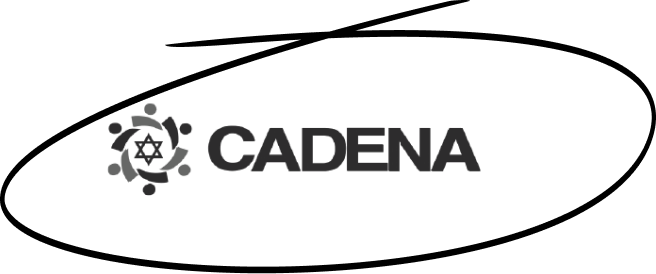
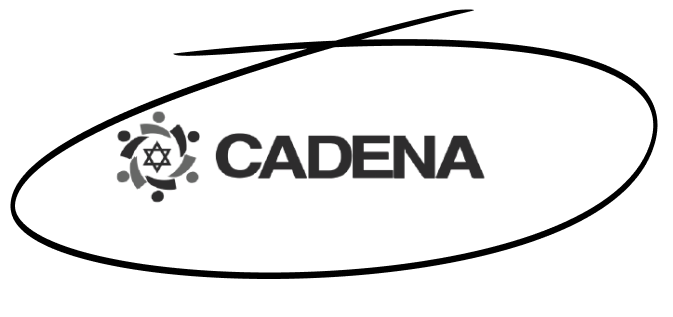
JSON provicional

Changed region(s): [[0.0, 0.0, 1.0, 1.0]]

diff --git a/src/pages/contactPage.jsx b/src/pages/contactPage.jsx
@@ -48,11 +48,11 @@ const ContactPage = () => {
                         <input type="text" name='' placeholder={t("industry")}></input>
                         <input type="text" name='' placeholder={t("email")}></input>
                         <input type="text" name='' placeholder={t("phone")}></input>
-                        <select type="text" name='' >
-                            <option value="">{t("territory")}</option>
+                        <select type="text" name=''>
+                            <option value="" className='opcion'>{t("territory")}</option>
                             <option value="item1">{t("argentina")}</option>
                             <option value="item2">{t("brazil")}</option>
-                            <option value="item3">{t("cam")}</option>
+                            <option value="item3">{t("centroam")}</option>
                             <option value="item4">{t("chile")}</option>
                             <option value="item5">{t("colombia")}</option>
                             <option value="item6">{t("ecuador")}</option>
@@ -120,10 +120,10 @@ const ContactPage = () => {
                     <p className='contactP'>dalia@tycoon.mx</p>
                 </PaisContacto>
                 <PaisContacto pais={t("peru")} image={Peru}>
-                    <p className='contactP'>+511 421 3498</p>
+                    <p className='contactP'>+51 994 102 984</p>
                     <p className='contactSubtitle'>{t("contact")}</p>
-                    <p className='contactP'>María Angela Morales</p>
-                    <p className='contactP'>mariaangela.morales@tycoon.mx</p>
+                    <p className='contactP'>Milka Miletich</p>
+                    <p className='contactP'>milka.miletich@tycoon.mx</p>
                 </PaisContacto>
             </div>
             <div className='contact'></div>
@@ -153,16 +153,16 @@ const ContactPage = () => {
                                     <input type="text" name='' placeholder={t("company")}></input>
                                     <input type="text" name='' placeholder={t("product")}></input>
                                     <input type="text" name='' placeholder={t("email")}></input>
-                                    <select type="text" name='' >
+                                    <select type="text" name=''>
                                         <option value="">{t("territory")}</option>
-                                        <option value="item1">{t("argentina")}</option>
-                                        <option value="item2">{t("brazil")}</option>
-                                        <option value="item3">{t("cam")}</option>
-                                        <option value="item4">{t("chile")}</option>
-                                        <option value="item5">{t("colombia")}</option>
-                                        <option value="item6">{t("ecuador")}</option>
-                                        <option value="item7">{t("mexico")}</option>
-                                        <option value="item8">{t("peru")}</option>
+                                        <option value="item1" className='opcion'>{t("argentina")}</option>
+                                        <option value="item2" className='opcion'>{t("brazil")}</option>
+                                        <option value="item3" className='opcion'>{t("centroam")}</option>
+                                        <option value="item4" className='opcion'>{t("chile")}</option>
+                                        <option value="item5" className='opcion'>{t("colombia")}</option>
+                                        <option value="item6" className='opcion'>{t("ecuador")}</option>
+                                        <option value="item7" className='opcion'>{t("mexico")}</option>
+                                        <option value="item8" className='opcion'>{t("peru")}</option>
                                     </select>
                                 </div>
                                 <div className='formRightDeskDiv'>
@@ -237,10 +237,10 @@ const ContactPage = () => {
                             <p className='contactP'>dalia@tycoon.mx</p>
                         </PaisContacto>
                         <PaisContacto pais={t("peru")} image={Peru}>
-                            <p className='contactP'>+511 421 3498</p>
+                            <p className='contactP'>+51 994 102 984</p>
                             <p className='contactSubtitle'>{t("contact")}</p>
-                            <p className='contactP'>María Angela Morales</p>
-                            <p className='contactP'>mariaangela.morales@tycoon.mx</p>
+                            <p className='contactP'>Milka Miletich</p>
+                            <p className='contactP'>milka.miletich@tycoon.mx</p>
                         </PaisContacto>
                     </div>
                 </div>

diff --git a/src/css/contact.css b/src/css/contact.css
@@ -27,7 +27,7 @@
 }
 .contactRightDiv a {
     text-decoration: none;
-    color: black;
+    color: #051C2C;
 }
 .contactInfoDiv {
     display: flex;
@@ -40,6 +40,8 @@
     font-size: 20px;
     width: 47%;
     text-align: right;
+    color: #051C2C;
+
 }
 .contactRightDiv{
     width: 47%;
@@ -49,6 +51,8 @@
     font-size: 16px;
     margin-bottom: 4%;
     margin-top: 0%;
+    color: #051C2C;
+
 }
 .mail {
     font-family: "B semiBold";
@@ -97,6 +101,18 @@
     font-family: "B semiBold";
     font-size: 16px;
 }
+.opcion:hover {background: blue;}
+/* .contactFormDiv select:hover {
+    color: #444645;
+    background: #ddd;
+} */
+/* .contactFormDiv select.decorated option:checked {
+    box-shadow: 0 0 10px 100px red inset;
+} */
+/* .contactFormDiv option:checked {
+    background-color: yellow;
+    font-size: 80px;
+  } */
 .contactFormDiv textarea {
     width: 95%;
     background-color: #CCE9F7;
@@ -124,6 +140,8 @@
     width: 60%;
     text-align: center;
     margin-bottom: 4%;
+    color: #051C2C;
+
 }
 .tycoon360 {
     width: 64%;

diff --git a/src/components/layout/footer.css b/src/components/layout/footer.css
@@ -8,6 +8,8 @@
 }
 .footerTitle {
     font-family: "B Bold";
+    color: #051C2C;
+
 }
 .paisesRow {
     display: flex;
@@ -16,17 +18,19 @@
 }
 .teInteresaDiv a {
     text-decoration: none;
-    color: black;
+    color: #051C2C;
 }
 .teInteresa {
     font-family: "B SemiBold";
 }
 .escribenos {
     font-family: "B SemiLight";
+    color: #051C2C;
+
 }
 .escribenos span {
     font-family: "B SemiBold";
-    color: #0093D7;
+    color: #051C2C;
 }
 .footerNav a  {
     font-family: "B SemiLight";
@@ -84,6 +88,8 @@
 }
 .pagsDiv a {
     font-size: 10px;
+    color: #051C2C;
+
 }
 .paisesDivDesk {
     display: flex;
@@ -96,7 +102,7 @@
 .pagsDiv a {
     font-family: "B SemiLight";
     text-decoration: none;
-    color: black;
+    color: #051C2C;
 }
 .redesDeskDiv {
     width: 15%;

diff --git a/src/components/layout/header.css b/src/components/layout/header.css
@@ -72,10 +72,10 @@
     justify-content: space-around;
     align-items: center;
     padding: 1% 2% 1% 5%;
-    width: 25%;
+    width: 20%;
 }
 .deskRightDiv img{
-    width: 40%;
+    width: 50%;
 }
 .deskNav {
     display: flex;
@@ -86,7 +86,7 @@
 }
 .deskNav a {
     font-family: "B Medium";
-    color: black;
+    color: #051C2C;
     text-decoration: none;
     font-size: 10px;
 
@@ -104,7 +104,7 @@
         font-size: 16px;
     }
     .deskRightDiv img{
-        width: 40%;
+        width: 50%;
     }
 }
 @media only screen and (min-width: 1500px) {

diff --git a/src/css/home.css b/src/css/home.css
@@ -40,6 +40,8 @@ body {
     font-size: 28px;
     line-height: 32px;
     cursor: pointer;
+    color: #051C2C;
+
 }
 .sectionTitle span {
     font-family: "B SemiLight";
@@ -48,14 +50,20 @@ body {
     font-family: "B SemiLight";
     font-size: 20px;
     line-height: 28px;
+    color: #051C2C;
+
 }
 .regularP span {
     font-family: "B Bold";
+    color: #051C2C;
+
 }
 .smallP {
     font-family: "B SemiLight";
     font-size: 16px;
     line-height: 24px;
+    color: #093b5e;
+
 }
 .smallP span {
     font-family: "B Bold";

diff --git a/src/components/layout/footer.jsx b/src/components/layout/footer.jsx
@@ -2,7 +2,7 @@ import React from 'react'
 import "./footer.css"
 import { Link } from "gatsby";
 import useWindowSize from "../../hooks/useWindowSize";
-import { useI18next, useTranslation } from "gatsby-plugin-react-i18next";
+import { useTranslation } from "gatsby-plugin-react-i18next";
 import "./footer.css"
 import renderStringHMTLtoJSX from "../../utils/renderStringHTMLtoJSX";
 import RedesCard from '../redes-card';

diff --git a/src/components/noticias-card/styles.css b/src/components/noticias-card/styles.css
@@ -11,6 +11,8 @@
 }
 .noticiaTitle {
     font-family: "B Medium";
+    color: #051C2C;
+
 }
 .noticiaUpperDiv {
     height: 55%;
@@ -27,7 +29,7 @@
 }
 .mas {
     width: 23%;
-    margin: 3%;
+    margin:  3% 3% 3% 0%;
 }
 
 @media only screen and (min-width: 752px) {

diff --git a/src/components/institucionesCard/styles.css b/src/components/institucionesCard/styles.css
@@ -30,6 +30,9 @@
     .institucionMainDiv img {
       /* height: 50%; */
     }
+    .deskTextDiv {
+        height: 200px;
+    }
     .instName {
         font-family: "B SemiLight";
         font-size:6px;
